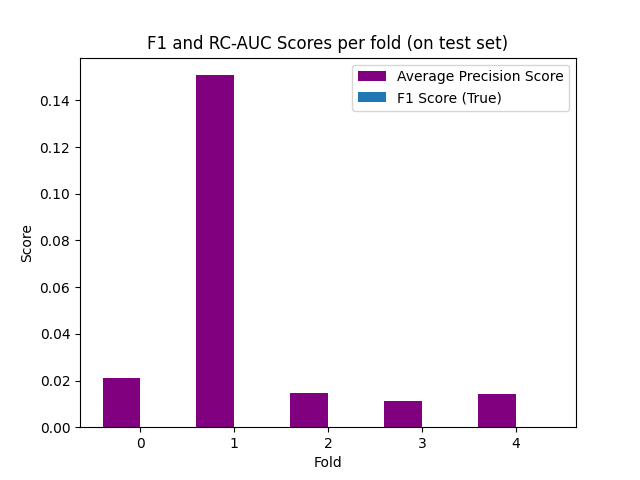
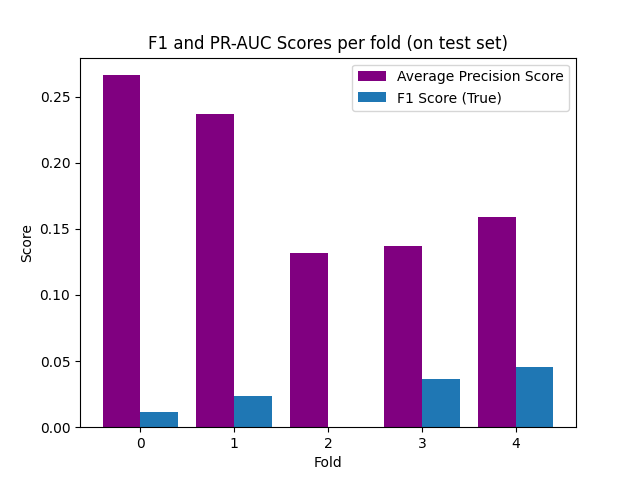
add plots, fix umap issues

diff --git a/src/scripts/visualize_embeddings.py b/src/scripts/visualize_embeddings.py
@@ -8,22 +8,30 @@ embeddings = (
     .select("embeddings", "label")
     .sort("label")
 )
-embeddings_puls = embeddings.filter(polars.col("label") == True)
-embeddings_non_puls = embeddings.filter(polars.col("label") == False)
+# convert to matrix
+embedding_matrix = np.stack(embeddings["embeddings"].to_list())
+# fit umap
+reducer = umap.UMAP()
+embedding_2d = reducer.fit_transform(embedding_matrix)
+x = embedding_2d[:, 0]
+y = embedding_2d[:, 1]
+reduced_embeddings = polars.DataFrame({
+    "x": x,
+    "y": y,
+    "label": embeddings["label"]
+})
 
 colors = plt.cm.tab20.colors
-for i, embeddings in enumerate([embeddings_non_puls, embeddings_puls]):
-    embedding_matrix = np.stack(embeddings.select("embeddings").to_series().to_list())
-    reducer = umap.UMAP()
-    embedding_2d = reducer.fit_transform(embedding_matrix)
-    plt.scatter(embedding_2d[:, 0], embedding_2d[:, 1], alpha=0.4, s=3, color=colors[i])
+for i, label in [True, False]:
+    embedding_2d = reduced_embeddings.filter(pl.col("label") == label)
+    plt.scatter(embedding_2d[:, 0], embedding_2d[:, 1], alpha=0.5, s=1, color=colors[i])
 
 plt.legend(handles=[
-    plt.Line2D([0], [0], marker='o', color='w', markerfacecolor=colors[1], markersize=5, label='Non-PUL gene'),
-    plt.Line2D([0], [0], marker='o', color='w', markerfacecolor=colors[0], markersize=5, label='PUL gene')
+    plt.Line2D([0], [0], marker='o', color='w', markerfacecolor=colors[0], markersize=5, label='PUL gene'),
+    plt.Line2D([0], [0], marker='o', color='w', markerfacecolor=colors[1], markersize=5, label='Non-PUL gene')
 ])
 plt.xticks([])
 plt.yticks([])
 plt.title("UMAP projection of gene embeddings")
-plt.savefig("src/data/plots/embedding_umap.png")
+plt.savefig("src/data/plots/genecat/embedding_umap.png")
 plt.clf()

diff --git a/src/scripts/evaluate_predictions.py b/src/scripts/evaluate_predictions.py
@@ -67,14 +67,19 @@ class PredictionEvaluator:
         print("Aggregating all folds for overall evaluation...")
         all_labeled_tables = []
         for fold in range(len(self.labeled_results)):
-            all_labeled_tables.append(
+            df = (
                 self.labeled_results[fold]
                 .join(self.clusters_table.select("sequence_id", "phylum", "species").unique(), on="sequence_id", how="left")
-                .with_columns(
+            )
+            # cast types to prevent issues
+            if "start_pred" in df.columns: 
+                df = df.with_columns(
                     polars.col("start_pred").cast(polars.Int64, strict=False),
                     polars.col("end_pred").cast(polars.Int64, strict=False),
                 )
-            )
+            all_labeled_tables.append(df)
+
+
         self.labeled_results = [polars.concat(all_labeled_tables)] # keep as list
         self.get_pulpy_annotations("src/data/results/pulpy_annotations.tsv") # re-join with pulpy annotations after concatenation
 
@@ -384,13 +389,15 @@ if __name__ == "__main__":
         output_path=output_path
     )
 
-    # evaluator.venn_diagram()
-    # evaluator.f1_per_fold()
-    # for fold in range(args.k):
-    #      evaluator.precision_recall_curve(fold)
-    #      evaluator.plot_roc_curves(fold)
-
     if args.k == 7:
+        evaluator.venn_diagram()
+
+    evaluator.f1_per_fold()
+    for fold in range(args.k):
+         evaluator.precision_recall_curve(fold)
+         evaluator.plot_roc_curves(fold)
+
+    if args.k >= 5:
         # new evaluator class for aggregating 5 folds instead of 7
         evaluator = PredictionEvaluator(
             f"{results_path}",
